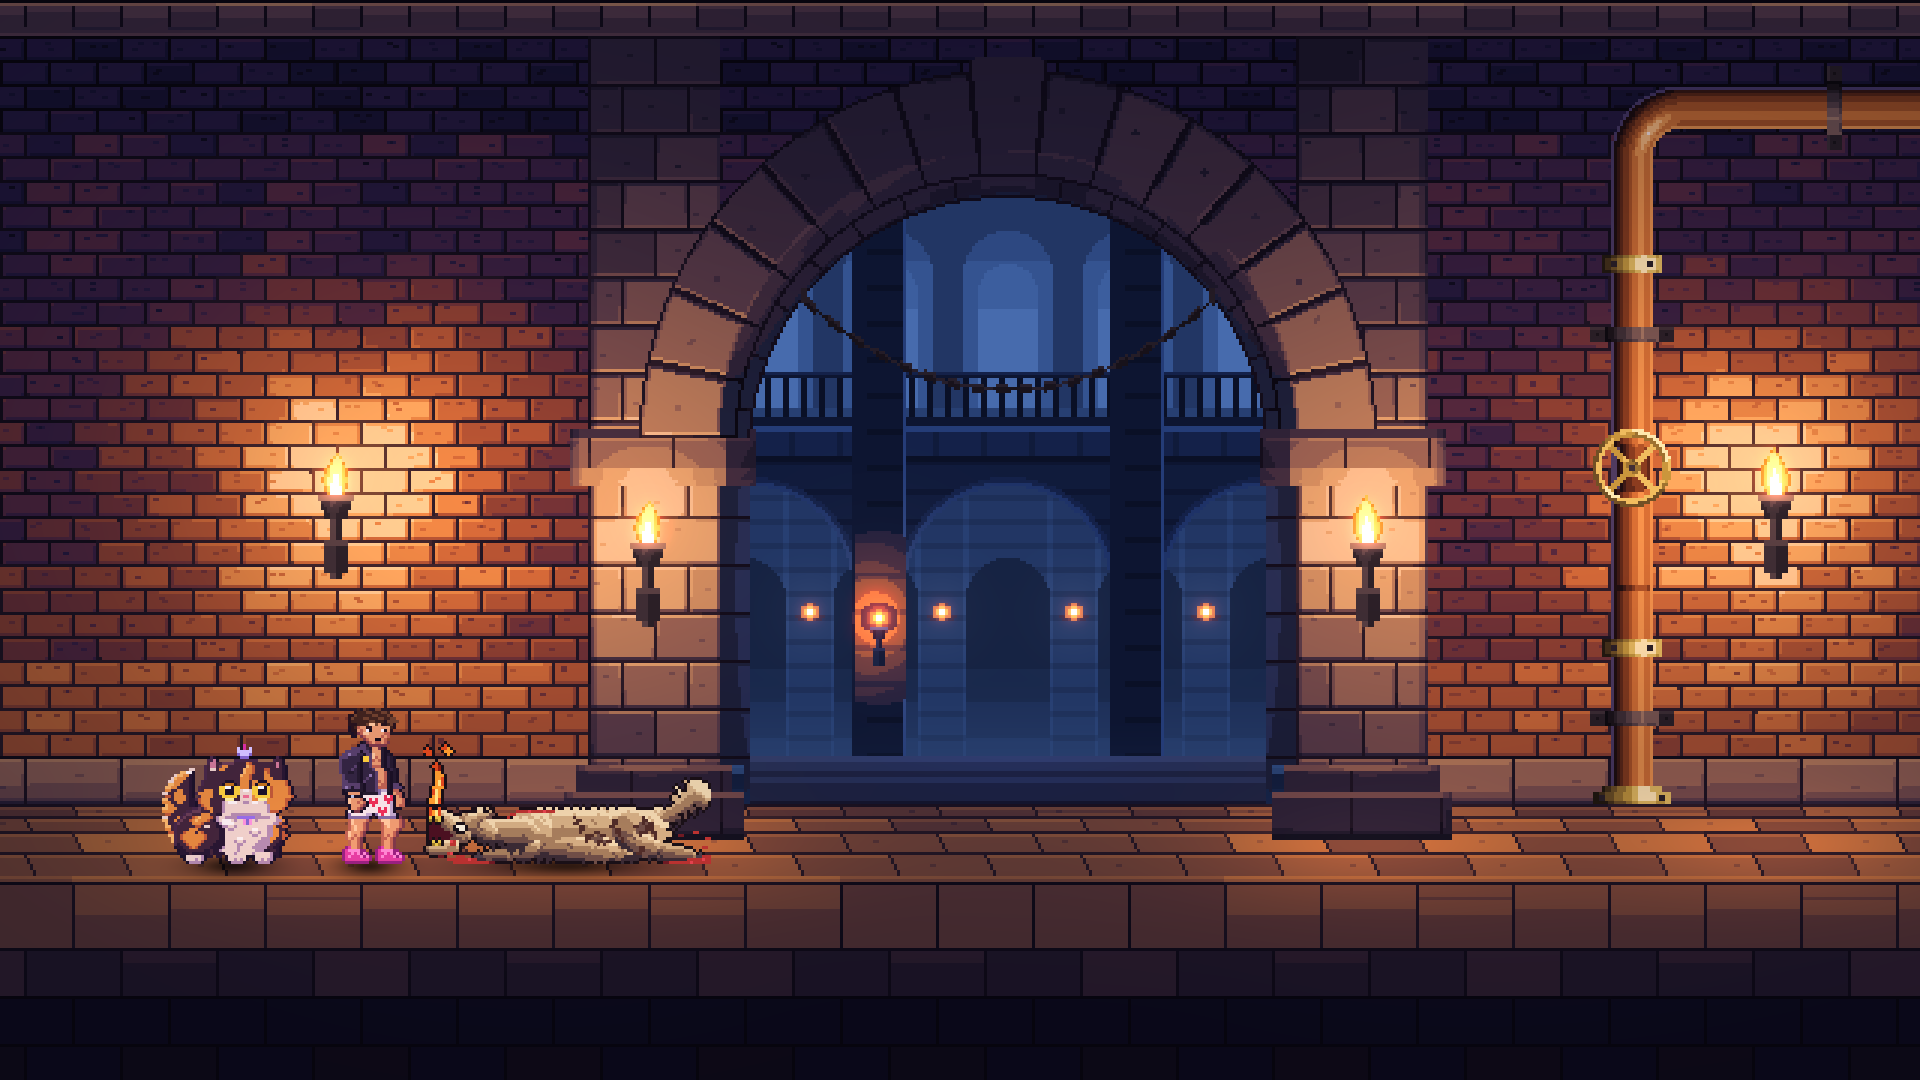
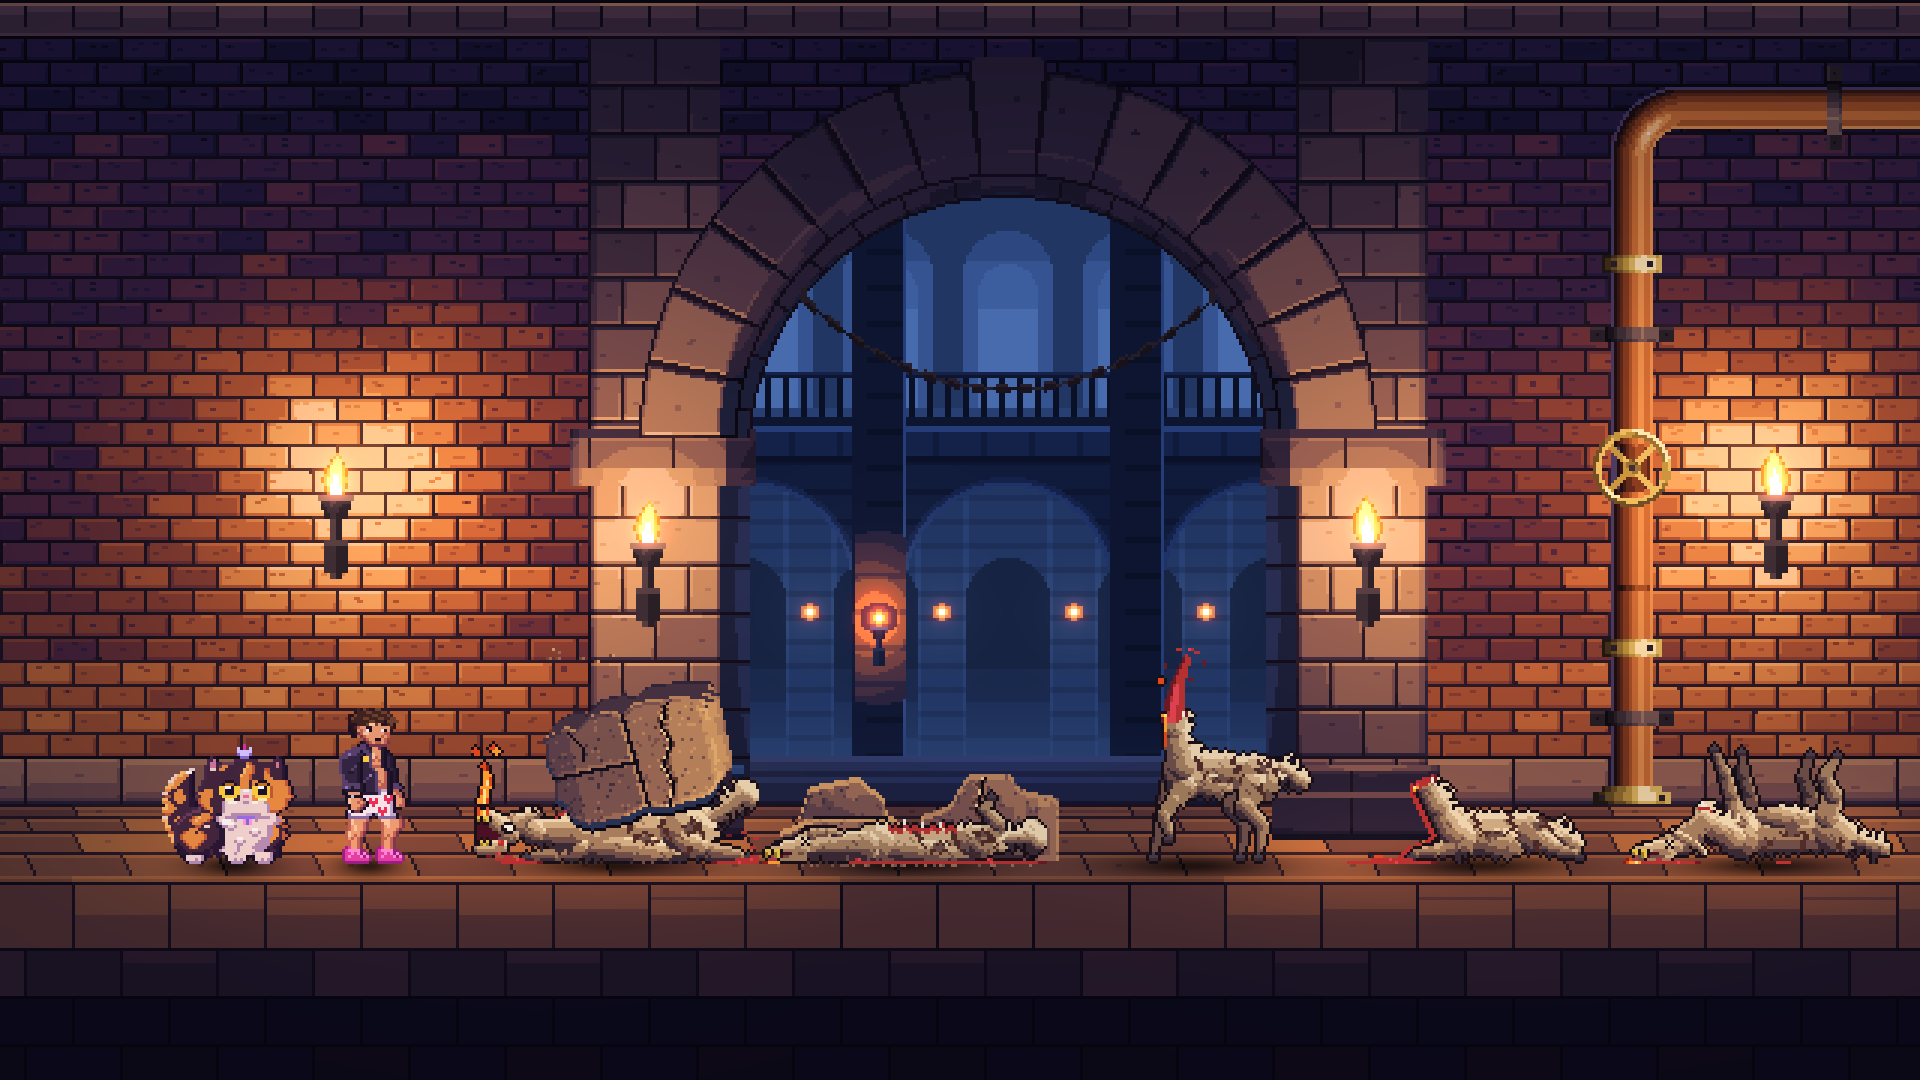
LLAMA-02-DEATH: review pack draws the stone over the crush (asset-local hook), spec notes N5 and open notes

Changed region(s): [[0.2188, 0.6111, 0.5625, 0.825], [0.7188, 0.6722, 1.0, 0.825], [0.5625, 0.6111, 0.6875, 0.825]]

diff --git a/scripts/llama02_death_review.py b/scripts/llama02_death_review.py
@@ -1,0 +1,80 @@
+"""LLAMA-02-DEATH review-pack hook (named by ``review.hook`` in ``llama_death_h64.pixelart.json``).
+
+The crush frames carry ``hazard_draw: "over"`` in ``assets/manifests/llama_death_h64.json``: on those ticks the falling
+stone draws over the crushed llama, anchored on the frame's ``hit_origin`` (spec section 13.1). Without it the crush
+reads as a llama lying down next to a lava jet, so the review images draw it. From ``crushed_remains`` on the goblin
+order applies: the landed stone sits behind the remains. The hook is opt-in and asset-local: the shared toolkit only
+calls it when the config names it.
+"""
+from __future__ import annotations
+
+import json
+import sys
+from pathlib import Path
+
+ROOT = Path(__file__).resolve().parent.parent
+sys.path.insert(0, str(ROOT / "scripts"))
+
+_CACHE: dict = {}
+
+
+def _data() -> dict:
+    if not _CACHE:
+        import author_llama02_death as ad
+        manifest = json.loads((ROOT / "assets/manifests/llama_death_h64.json").read_text(encoding="utf-8"))
+        frames = manifest["death_poses"]["frames"]
+        _CACHE["over"] = {f["index"]: f["anchors"]["hit_origin"] for f in frames if f.get("hazard_draw") == "over"}
+        _CACHE["remains"] = {f["index"]: f["anchors"]["pool_origin"] for f in frames if f["tag"] == "crushed_remains"}
+        _CACHE["falling"] = ad.block_piece("loose_block_falling")
+        _CACHE["landed"] = ad.block_piece("loose_block_landed")
+        _CACHE["canvas"], _CACHE["pivot"] = ad.CANVAS, ad.PIVOT
+    return _CACHE
+
+
+def actor_overlays(cfg, actor: dict):
+    """``(before, after)`` scene entries around a mirrored actor at world ``x`` (the runtime flip: x' = w - 1 - x, pivot
+    column 51)."""
+    d = _data()
+    frame = actor["frame"]
+    w, pivot = d["canvas"][0], d["pivot"]
+    flipped_pivot = w - 1 - pivot[0]
+    if frame in d["over"]:
+        ax, ay = d["over"][frame]
+        img, anchor = d["falling"]
+        return [], [(img, anchor, actor["x"] + (w - 1 - ax) - flipped_pivot, pivot[1] - ay, False)]
+    if frame in d["remains"]:
+        ax, _ay = d["over"][0]
+        img, anchor = d["landed"]
+        return [(img, anchor, actor["x"] + (w - 1 - ax) - flipped_pivot, 0, False)], []
+    return [], []
+
+
+def strip_frame(cfg, frame: int, img):
+    """The frame as shown in the strip (authored facing right): the stone over it on the hazard frames, the landed stone
+    behind the remains."""
+    d = _data()
+    from PIL import Image
+    out = Image.new("RGBA", img.size, (0, 0, 0, 0))
+
+    def put(piece, ax, ay):
+        stone, (sx, sy) = piece
+        _clipped(out, stone, ax - sx, ay - sy)
+
+    if frame in d["over"]:
+        out.alpha_composite(img)
+        ax, ay = d["over"][frame]
+        put(d["falling"], ax, ay)
+    elif frame in d["remains"]:
+        ax, ay = d["over"][0]
+        put(d["landed"], ax, d["pivot"][1])
+        out.alpha_composite(img)
+    else:
+        return img
+    return out
+
+
+def _clipped(out, stone, x: int, y: int) -> None:
+    """alpha_composite of a sprite that overhangs the frame (the overhang is cropped)."""
+    cx, cy = max(0, -x), max(0, -y)
+    w, h = min(stone.width, out.width - x), min(stone.height, out.height - y)
+    out.alpha_composite(stone.crop((cx, cy, w, h)), (x + cx, y + cy))

diff --git a/scripts/pixelart/scene.py b/scripts/pixelart/scene.py
@@ -72,11 +72,25 @@ def default_actors(cfg: AssetConfig) -> list[dict]:
     return out
 
 
+def review_hook(cfg: AssetConfig):
+    """The asset-local review hook named by ``review.hook`` in the config (a module under ``scripts``), or None.
+
+    Opt-in: an asset that needs extra context in its review images (for example a hazard drawn over a crushed enemy)
+    names a module with ``actor_overlays(cfg, actor) -> (before, after)`` (scene entries drawn around the actor) and
+    ``strip_frame(cfg, frame, img) -> img`` (the frame as shown in the tell/attack strip). Without the key nothing changes."""
+    name = cfg.get("review", {}).get("hook")
+    if not name:
+        return None
+    import importlib
+    return importlib.import_module(name)
+
+
 def entries_for(cfg: AssetConfig, imgs: list[Image.Image]) -> list[tuple]:
     carl, carl_piv = reference_idle("carl")
     donut, donut_piv = reference_idle("donut")
     entries = [(donut, donut_piv, DONUT_X, 0), (carl, carl_piv, CARL_X, 0)]
     pivot = tuple(cfg.pivot)
+    hook = review_hook(cfg)
     for actor in default_actors(cfg):
         img, piv = imgs[actor["frame"]], pivot
         # authored facing right; enemies face Carl on their left, so mirror them (the runtime rule)
@@ -84,10 +98,11 @@ def entries_for(cfg: AssetConfig, imgs: list[Image.Image]) -> list[tuple]:
             img, piv = flip(img, pivot)
         shadow = actor.get("shadow", cfg.get("scene", {}).get("shadow", True))  # False: wall/ceiling creature
         entry = (img, piv, actor["x"], actor.get("lift", 0), shadow)
+        before, after = hook.actor_overlays(cfg, actor) if hook else ([], [])
         if actor.get("behind"):       # drawn before Carl and Donut (effects sit behind the actors)
             entries.insert(0, entry)
         else:
-            entries.append(entry)
+            entries += list(before) + [entry] + list(after)
     for ref in cfg.get("scene", {}).get("references", []):
         # extra approved sprites for direct comparison (e.g. GOB-01 A/B next to a later goblin type)
         grid = load_grid_file(repo_path(ref["grid"]))

diff --git a/scripts/pixelart/evidence.py b/scripts/pixelart/evidence.py
@@ -154,9 +154,11 @@ def tell_attack_strip(cfg: AssetConfig, imgs: list[Image.Image], k: int = 4) -> 
                        f"(tick 0 = first frame of the strip)", WHITE, 11)
     tick = 0
     spans = []
+    hook = scene.review_hook(cfg)
     for i, (tag, f, tk) in enumerate(frames):
         x = pad + i * (w * k + gap)
-        sheet.paste(cell(imgs[f], k, cfg.pivot, cfg.contact_row).convert("RGB"), (x, head))
+        shown = hook.strip_frame(cfg, f, imgs[f]) if hook else imgs[f]
+        sheet.paste(cell(shown, k, cfg.pivot, cfg.contact_row).convert("RGB"), (x, head))
         window = "state-driven hold" if tk is None else f"ticks {tick}-{tick + tk - 1}"
         label(d, (x + 1, head + h * k + 2), f"{f:02d} {tag}", WHITE, 11)
         label(d, (x + 1, head + h * k + 17), window, YELLOW, 11)

diff --git a/docs/02-art/llama-02-death-spec.md b/docs/02-art/llama-02-death-spec.md
@@ -283,8 +283,14 @@ Non-blocking gate notes, resolved or carried:
 - **N2** fixed: `neck` presets are `[4]`, and the section 5 preset-3 explosion list matches the data (head, torso_front, torso_rump, leg_fore, leg_hind, gland).
 - **N3** fixed: `preset_layer` and `always_shown_layers` are in both manifests.
 - **N4 (geyser brightness)** checked in the crush storyboard on lit brick: the 10 to 14 `drop_molten` keep the burst brightest for the contact ticks.
-- **N5** the spawner filters parts by the per-part `presets` list (`filter_by` in the parts manifest); blood stains and the head trail are absent from preset 1 (`head` stain and trail are blood decals, which the preset 1 class filter drops).
+- **N5** the spawner filters parts by the per-part `presets` list (`filter_by` in the parts manifest); blood stains and the head trail are absent from preset 1 because the decals they spawn (`decal_splat_s`, `decal_smear`) do not list preset 1 in their own `presets` (`[2, 3, 4]` and `[4]`). Blood is filtered at preset 1 by each part's preset list in the manifest, not by a class filter.
 - **N6** the slam and broken-heap GIFs show the change from flung to stiff legs reads over the 6-tick contact.
+
+Open notes from the blind review (frozen keys, deliberately not changed; the top tier may re-freeze them, none blocks):
+
+- **Stump blood run (key 5).** The run of blood down the front of the stump is a steady 1 px `b` line from the cap to the pool, so at 4x it reads partly as a red outline rather than a dribble. Gaps or a `B`/`P` rhythm would make it a run.
+- **Preset-1 gobbet (key 3).** With the jet hidden at preset 1, the single molten gobbet inside the spray floats alone about 15 px above the stump and reads as a stray ember. It is correctly on the `molten` layer (a lava fleck, shown at every preset by gate ruling 2), not a misplaced gore pixel, so no layer fix applies; the options are to move it into the duct dribble or accept it as a spit fleck.
+- **Ear tip on `crushed_remains` (key 2).** The identity of the remains rests on the teeth and the stone context. An ear tip on the flattened head would add a second cue if the owner wants a stronger read.
 
 ## Execution record
 
@@ -295,6 +301,7 @@ Executed by the medium tier per section 9 (no design decision was changed; the k
 - **Data.** `PART_META` presets follow the section 5 table (neck `[4]`, far legs `[4]`, ear and jaw `[4]`, bone and rib gibs `[4]`); `hazard_draw`, `spawner_hints` (crush, decapitation, slam, explosive), tick windows and anchors for every frame are in the manifests.
 - **One data adjustment to a section 7 number.** The waist cut plane is at x 36, not x 41. With the plane at 41 the rump (plume tail to the cut) is 33 px wide, which cannot fit a 32 px cell, let alone the 28 px launched-part cap; at 36 the rump is 28 px and `torso_front` is about 24 px (the section 7 size). It is one constant (`WAIST_X`). *Ratified in the design follow-up (decision D-W1).*
 - **Design observation (gate note N1), resolved by the design follow-up.** `headless_collapse` on lit brick at 1x ([`scene_headless_x3.png`](../evidence/llama-02-death/scene_headless_x3.png), [`silhouette_scale_1x.png`](../evidence/llama-02-death/silhouette_scale_1x.png)) still reads as a headless carcass with a stump and a pool, but the long-neck cue is weak because the stump lies nearly level with the back. The decapitation sequence gives it context. If the review judges it "generic carcass", the design-stage remedy is to prop the stump higher (top row 48 or lower) before frame 5 is redrawn; it was not changed here because frame 5 is a frozen key.
+- **Review pack.** The review images draw the stone over the crush frames through an opt-in, asset-local hook (`review.hook` in `llama_death_h64.pixelart.json` names `scripts/llama02_death_review.py`; the toolkit only calls it when the config names it): the falling stone over frames 0 and 1 on `hit_origin` (the scene and the tell/attack strip), the landed stone behind the remains.
 - **Evidence** is regenerated (see the evidence README), the full-sequence GIFs use an exact palette (no quantisation), and a test checks that every GIF frame keeps the wool colour and the blood red.
 
 ### Design follow-up (2026-11-19)
